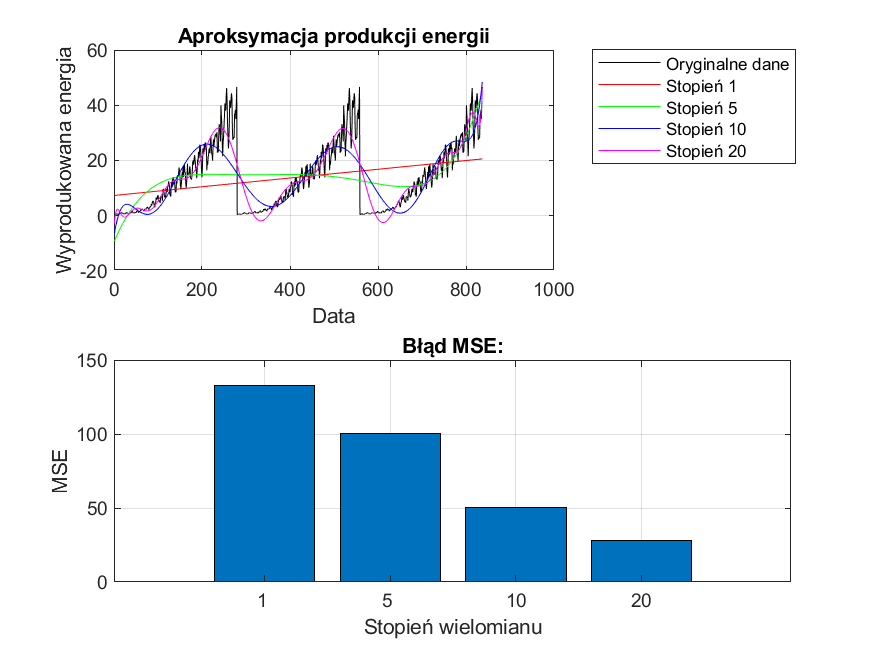
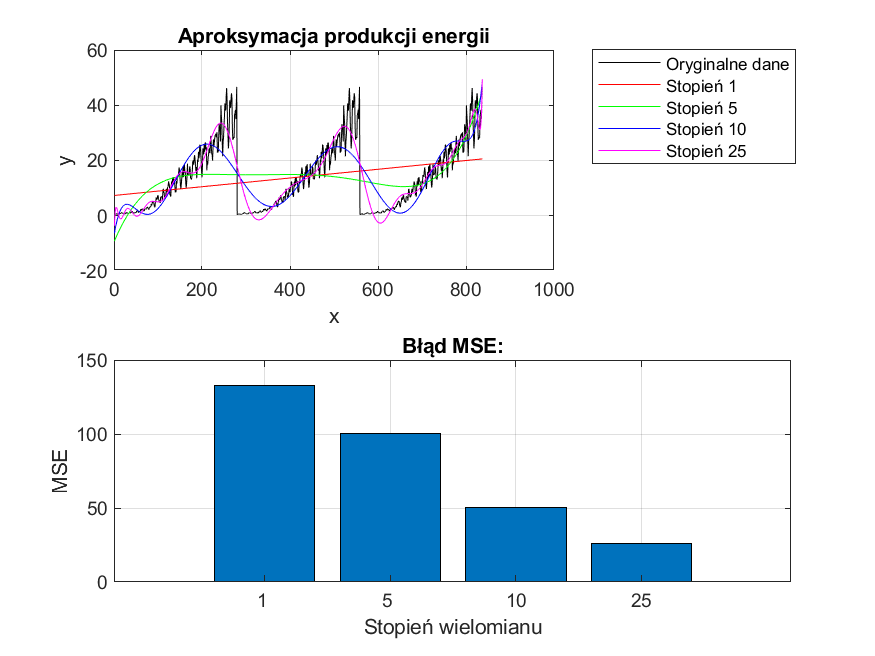
FInallab6

diff --git a/lab6/zadanie5.m b/lab6/zadanie5.m
@@ -1,5 +1,5 @@
-function [country, source, degrees, x_coarse, x_fine, y_original, y_yearly, y_approximation, mse, msek] = zadanie4(energy)
-% Głównym celem tej funkcji jest wyznaczenie danych na potrzeby analizy dokładności aproksymacji wielomianowej.
+function [country, source, degrees, x_coarse, x_fine, y_original, y_yearly, y_approximation, mse, msek] = zadanie5(energy)
+% Głównym celem tej funkcji jest wyznaczenie danych na potrzeby analizy dokładności aproksymacji cosinusowej.
 % 
 % energy - struktura danych wczytana z pliku energy.mat
 % country - [String] nazwa kraju
@@ -14,13 +14,13 @@ function [country, source, degrees, x_coarse, x_fine, y_original, y_yearly, y_ap
 %   - y_approximation{i} stanowi wartości funkcji aproksymującej w punktach x_fine
 % mse - wektor mający nmax wierszy: mse(i) zawiera wartość błędu średniokwadratowego obliczonego dla aproksymacji stopnia i.
 %   - mse liczony jest dla aproksymacji wyznaczonej dla wektora x_coarse
-% msek - wektor mający (nmax-1) wierszy: msek zawiera wartości błędów różnicowych zdefiniowanych w treści zadania 4
+% msek - wektor mający nmax wierszy: msek zawiera wartości błędów różnicowych zdefiniowanych w treści zadania 5
 %   - msek(i) porównuj aproksymacje wyznaczone dla i-tego oraz (i+1) stopnia wielomianu
 %   - msek liczony jest dla aproksymacji wyznaczonych dla wektora x_fine
 
 country = 'USA';
 source = 'Wind';
-degrees = [5 15 20 25];
+degrees = [5 10 15 20];
 x_coarse = [];
 x_fine = [];
 y_original = [];
@@ -34,6 +34,7 @@ if isfield(energy, country) && isfield(energy.(country), source)
     % Przygotowanie danych do aproksymacji
     dates = energy.(country).(source).Dates;
     y_original = energy.(country).(source).EnergyProduction;
+    y_original_mean = movmean(y_original,[11,0]);
 
     % Obliczenie danych rocznych
     n_years = floor(length(y_original) / 12);
@@ -43,18 +44,20 @@ if isfield(energy, country) && isfield(energy.(country), source)
 
     % degrees = 
 
+    % Przygotowanie danych do aproksymacji
     N = length(y_yearly);
-    x_coarse = linspace(-1, 1, N)';
-    x_fine = linspace(-1, 1, (N-1)*10+1)';
-
-    % Pętla po wielomianach różnych stopni
+    P = (N-1)*8+1; % liczba wartości funkcji aproksymującej
+    x_coarse = linspace(0, 1, N)';
+    x_fine = linspace(0, 1, P)';
+    
     prev_p = [];
-    for i = 1:N-1
-        p = my_polyfit(x_coarse, y_yearly, i);
-        y_approximation{i} = polyval(p, x_fine);
-        mse(i, 1) = mean(((y_yearly-polyval(p, x_coarse)).^2));
+    % Pętla po wielomianach różnych stopni
+    for i = 1:N
+        p=dct2_custom(y_yearly, i);
+        y_approximation{i} = idct2_custom(p, i, N, P);
+        mse(i, 1) = mean(((y_yearly-idct2_custom(p, i, N, N)).^2));
         if i > 1
-            msek(i-1, 1) = mean(((polyval(p_prev, x_fine)-polyval(p, x_fine)).^2));
+            msek(i-1, 1) = mean((idct2_custom(p_prev, i-1, N, P)-idct2_custom(p, i, N, P)).^2);
         end
         p_prev = p;
     end
@@ -70,8 +73,8 @@ if isfield(energy, country) && isfield(energy.(country), source)
         plot(x_fine, y_approximation{degrees(i)}, colors(i), 'DisplayName', ['Stopień ' num2str(degrees(i))]);
     end
     hold off;
-    xlabel('x');
-    ylabel('y');
+    xlabel('Data');
+    ylabel('Wyprodukowana energia');
     title('Aproksymacja produkcji energii');
     legend('Location', 'northeastoutside');
     grid on;
@@ -92,23 +95,42 @@ if isfield(energy, country) && isfield(energy.(country), source)
     title('Błąd MSEK:');
     grid on;
 
-    print('zadanie4.png', '-dpng');
-
+    print('zadanie5.png', '-dpng');
 else
     disp(['Dane dla (country=', country, ') oraz (source=', source, ') nie są dostępne.']);
 end
 
 end
 
-function p = my_polyfit(x, y, deg)
-    m = length(x);
-    X = zeros(m, deg+1);
+function X = dct2_custom(x, kmax)
+% Wyznacza kmax pierwszych współczynników DCT-2 dla wektora wejściowego x.
+    N = length(x);
+    X = zeros(kmax, 1);
+    c2 = sqrt(2/N);
+    c3 = pi/2/N;
+    nn = (1:N)';
 
-    for i = 1:m
-        for j = deg:-1:0
-            X(i, deg-j+1) = x(i)^j;
-        end
+    X(1) = sqrt(1/N) * sum( x(nn) );
+    for k = 2:kmax
+        X(k) = c2 * sum( x(nn) .* cos(c3 * (2*(nn-1)+1) * (k-1)) );
     end
-
-    p = (transpose(X) * X) \ (transpose(X) * y);
 end
+
+function x = idct2_custom(X, kmax, N, P)
+% Wyznacza wartości aproksymacji cosinusowej x.
+% X - współczyniki DCT
+% kmax - liczba współczynników DCT zastosowanych do wyznaczenia wektora x
+% N - liczba danych dla których została wyznaczona macierz X
+% P - długość zwracanego wektora x (liczba wartości funkcji aproksymującej w przedziale [0,1])
+    x = zeros(P, 1);
+    kk = (2:kmax)';
+    c1 = sqrt(1/N);
+    c2 = sqrt(2/N);
+    c3 = pi*(N - 1)/(2*N*(P - 1));
+    c4 = -(pi*(N - P))/(2*N*(P - 1));
+
+    for n = 1:P
+        x(n) = c1*X(1) + c2*sum( X(kk) .* cos((c3*(2*(n-1)+1)+c4) * (kk-1)) );
+    end
+end
+

diff --git a/lab6/zadanie1.m b/lab6/zadanie1.m
@@ -13,7 +13,7 @@ function [country, source, degrees, y_original, y_approximation, mse] = zadanie1
 
 country = 'USA';
 source = 'Wind';
-degrees = [1, 5, 10, 20];
+degrees = [1, 5, 10, 25];
 y_approximation= {};
 mse = [];
 
@@ -44,8 +44,8 @@ if isfield(energy, country) && isfield(energy.(country), source)
         plot(x_to_figure, y_approximation{i}, colors(i), 'DisplayName', ['Stopień ' num2str(degrees(i))]);
     end
     hold off;
-    xlabel('Data');
-    ylabel('Wyprodukowana energia');
+    xlabel('x');
+    ylabel('y');
     title('Aproksymacja produkcji energii');
     legend('Location', 'northeastoutside');
     grid on;

diff --git a/lab6/main.m b/lab6/main.m
@@ -10,4 +10,6 @@ load('energy.mat');
 
 % [country, source, degrees, x_coarse, x_fine, y_original, y_yearly, y_approximation, mse] = zadanie3(energy);
 
-[country, source, degrees, x_coarse, x_fine, y_original, y_yearly, y_approximation, mse, msek] = zadanie4(energy);
+% [country, source, degrees, x_coarse, x_fine, y_original, y_yearly, y_approximation, mse, msek] = zadanie4(energy);
+
+% [country, source, degrees, x_coarse, x_fine, y_original, y_yearly, y_approximation, mse, msek] = zadanie5(energy);

diff --git a/lab6/zadanie2.m b/lab6/zadanie2.m
@@ -47,8 +47,8 @@ if isfield(energy, country) && isfield(energy.(country), source)
         plot(x_to_figure, y_approximation{i}, colors(i), 'DisplayName', ['Stopień ' num2str(degrees(i))]);
     end
     hold off;
-    xlabel('Data');
-    ylabel('Wyprodukowana energia');
+    xlabel('x');
+    ylabel('y');
     title('Wygladzona aproksymacja produkcji energii');
     legend('Location', 'northeastoutside');
     grid on;
